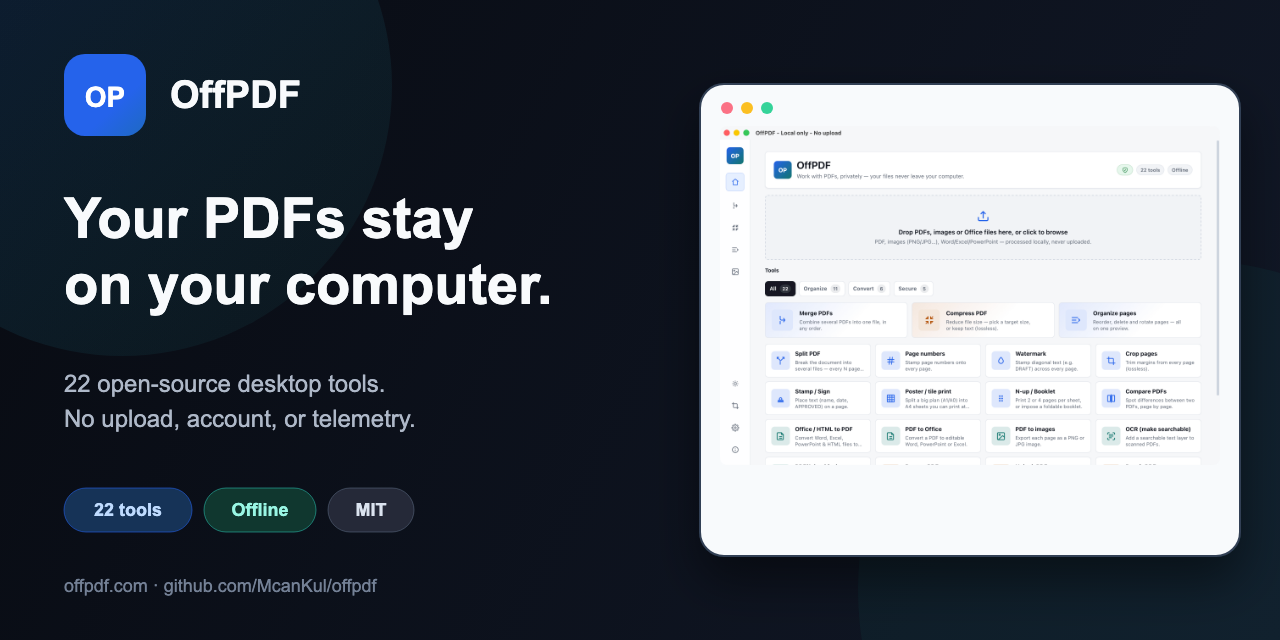
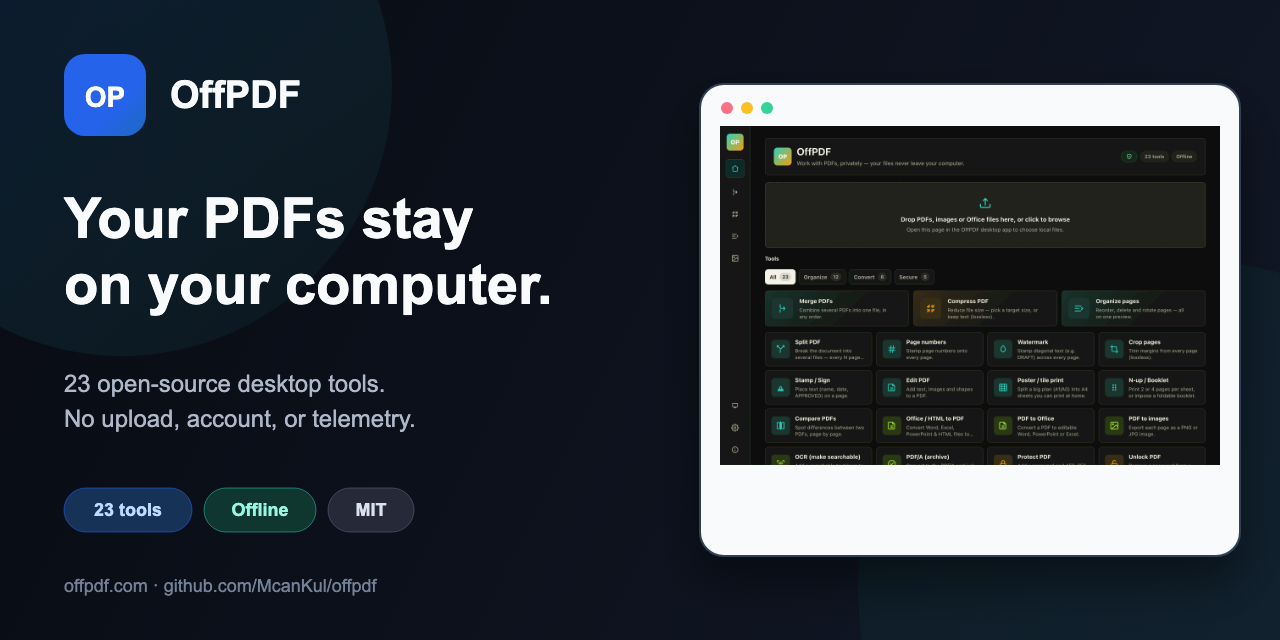
fix: finish the Edit PDF production workflow

Changed region(s): [[0.5625, 0.1875, 0.9688, 0.75]]

diff --git a/src/components/pdf/editor/PdfEditorCanvas.tsx b/src/components/pdf/editor/PdfEditorCanvas.tsx
@@ -2,7 +2,14 @@
  * Reusable visual PDF editor canvas.
  * Renders a page, hosts an SVG draft overlay, object list, zoom/page chrome.
  */
-import { useCallback, useEffect, useRef, useState, type PointerEvent as ReactPointerEvent } from "react";
+import {
+  useCallback,
+  useEffect,
+  useMemo,
+  useRef,
+  useState,
+  type PointerEvent as ReactPointerEvent,
+} from "react";
 import { Button } from "@/components/ui/Button";
 import { Icon } from "@/components/ui/Icon";
 import { Spinner } from "@/components/ui/Spinner";
@@ -20,6 +27,7 @@ import {
   pdfRectToViewport,
   placeImagePdfRect,
   rgbToHex,
+  selectedIdsOnPage,
   stageJustify,
 } from "@/lib/editor";
 import { PageSurface, type PageLayout } from "./PageSurface";
@@ -104,6 +112,20 @@ export function PdfEditorCanvas({
     strokeWidth: 1.5,
     opacity: 1,
   });
+  const pageObjects = useMemo(
+    () => session.objects.filter((object) => object.pageIndex === pageIndex),
+    [pageIndex, session.objects],
+  );
+  const pageSelectedIds = useMemo(
+    () => selectedIdsOnPage(session.objects, session.selectedIds, pageIndex),
+    [pageIndex, session.objects, session.selectedIds],
+  );
+
+  useEffect(() => {
+    setEditingTextId(null);
+    setColorPick(null);
+    setPickCursor(null);
+  }, [pageIndex]);
 
   useEffect(() => {
     const el = stageRef.current;
@@ -189,13 +211,14 @@ export function PdfEditorCanvas({
   };
 
   const copySelection = useCallback(() => {
-    const sel = session.objects.filter((o) => session.selectedIds.includes(o.id));
+    const activeIds = new Set(selectedIdsOnPage(session.objects, session.selectedIds, pageIndex));
+    const sel = session.objects.filter((object) => activeIds.has(object.id));
     if (sel.length === 0) return false;
     clipboardRef.current = sel.map(cloneObject);
     pasteGen.current = 1;
     setCanPaste(true);
     return true;
-  }, [session.objects, session.selectedIds]);
+  }, [pageIndex, session.objects, session.selectedIds]);
 
   const pasteClipboard = useCallback(() => {
     if (clipboardRef.current.length === 0) return;
@@ -249,7 +272,7 @@ export function PdfEditorCanvas({
         return;
       }
       if (mod && e.key.toLowerCase() === "d") {
-        if (session.selectedIds.length === 0) return;
+        if (pageSelectedIds.length === 0) return;
         e.preventDefault();
         copySelection();
         pasteClipboard();
@@ -270,30 +293,30 @@ export function PdfEditorCanvas({
         return;
       }
       if (e.key === "Delete" || e.key === "Backspace") {
-        if (session.selectedIds.length === 0) return;
+        if (pageSelectedIds.length === 0) return;
         e.preventDefault();
-        session.remove(session.selectedIds);
+        session.remove(pageSelectedIds);
         return;
       }
-      if (session.selectedIds.length === 0) return;
+      if (pageSelectedIds.length === 0) return;
       const step = e.shiftKey ? 10 : 1;
       if (e.key === "ArrowLeft") {
         e.preventDefault();
-        session.nudgeSelected(-step, 0);
+        session.nudgeSelected(-step, 0, pageIndex);
       } else if (e.key === "ArrowRight") {
         e.preventDefault();
-        session.nudgeSelected(step, 0);
+        session.nudgeSelected(step, 0, pageIndex);
       } else if (e.key === "ArrowUp") {
         e.preventDefault();
-        session.nudgeSelected(0, step);
+        session.nudgeSelected(0, step, pageIndex);
       } else if (e.key === "ArrowDown") {
         e.preventDefault();
-        session.nudgeSelected(0, -step);
+        session.nudgeSelected(0, -step, pageIndex);
       }
     };
     window.addEventListener("keydown", onKey);
     return () => window.removeEventListener("keydown", onKey);
-  }, [session, colorPick, copySelection, pasteClipboard, shapeOpen]);
+  }, [session, colorPick, copySelection, pageIndex, pageSelectedIds, pasteClipboard, shapeOpen]);
 
   useEffect(() => {
     const stopSpacePan = () => {
@@ -327,7 +350,7 @@ export function PdfEditorCanvas({
     };
   }, []);
 
-  const selected = session.objects.find((o) => o.id === session.selectedIds[0]) ?? null;
+  const selected = pageObjects.find((object) => object.id === pageSelectedIds[0]) ?? null;
   const panMode = !colorPick && (tool === "hand" || spacePan);
 
   const onStagePointerDown = (e: ReactPointerEvent<HTMLDivElement>) => {
@@ -403,7 +426,7 @@ export function PdfEditorCanvas({
           size="sm"
           variant="ghost"
           onClick={copySelection}
-          disabled={session.selectedIds.length === 0}
+          disabled={pageSelectedIds.length === 0}
           title="Copy (Ctrl/Cmd+C)"
           aria-label="Copy"
         >
@@ -485,22 +508,22 @@ export function PdfEditorCanvas({
         <aside className="pdf-editor__sidebar">
           <div className="pdf-editor__sidebar-title">Objects</div>
           <ObjectList
-            objects={session.objects}
-            selectedIds={session.selectedIds}
+            objects={pageObjects}
+            selectedIds={pageSelectedIds}
             onSelect={session.select}
             onDelete={session.remove}
           />
-          {selected && session.selectedIds.length > 1 && (
+          {selected && pageSelectedIds.length > 1 && (
             <div className="muted" style={{ fontSize: 12.5, marginTop: 10 }}>
-              {session.selectedIds.length} selected — drag to move together
+              {pageSelectedIds.length} selected — drag to move together
             </div>
           )}
-          {selected && session.selectedIds.length === 1 && (
+          {selected && pageSelectedIds.length === 1 && (
             <ObjectInspector
               obj={selected}
               picking={colorPick}
-              layerIndex={session.objects.filter((o) => o.pageIndex === selected.pageIndex).findIndex((o) => o.id === selected.id) + 1}
-              layerCount={session.objects.filter((o) => o.pageIndex === selected.pageIndex).length}
+              layerIndex={pageObjects.findIndex((object) => object.id === selected.id) + 1}
+              layerCount={pageObjects.length}
               onChange={(patch) => {
                 session.updateObject(selected.id, patch);
                 if (isClosedShapeObject(selected)) {
@@ -557,8 +580,8 @@ export function PdfEditorCanvas({
               {layout && (
                 <EditorOverlay
                   layout={layout}
-                  objects={session.objects}
-                  selectedIds={session.selectedIds}
+                  objects={pageObjects}
+                  selectedIds={pageSelectedIds}
                   pageIndex={pageIndex}
                   tool={panMode ? "hand" : tool}
                   createStyle={lastShapeStyle.current}
@@ -594,7 +617,7 @@ export function PdfEditorCanvas({
               )}
               {editingTextId && layout && (
                 <TextEditor
-                  obj={session.objects.find((o) => o.id === editingTextId)}
+                  obj={pageObjects.find((object) => object.id === editingTextId)}
                   layout={layout}
                   onChange={(content) => session.updateObject(editingTextId, { content } as Partial<EditObject>)}
                   onClose={() => setEditingTextId(null)}

diff --git a/src/features/edit-pdf/EditPdfPage.tsx b/src/features/edit-pdf/EditPdfPage.tsx
@@ -118,7 +118,7 @@ export function EditPdfPage() {
     );
   };
 
-  const canStart = refs.length > 0 && !!folder && doc.objects.length > 0 && !job.isBusy && inTauri;
+  const canStart = !job.isBusy && inTauri;
 
   return (
     <ToolPage tool={tool}>
@@ -131,12 +131,22 @@ export function EditPdfPage() {
         )}
       </ToolSection>
 
-      {!inTauri && (
-        <Alert variant="warning">Open the desktop app to edit pages and save a new PDF.</Alert>
-      )}
+      <ToolSection label="Output">
+        <div className="col">
+          <Input label="File name" value={name} onChange={(e) => setName(e.target.value)} placeholder="edited.pdf" />
+          <OutputFolderPicker value={folder} onChange={setFolder} />
+          <div className="row">
+            <Button variant="primary" size="lg" onClick={start} disabled={!canStart} loading={job.isBusy} leftIcon={<Icon name="fileText" size={18} />}>
+              Save PDF
+            </Button>
+          </div>
+        </div>
+      </ToolSection>
+
+      <JobStatus job={job} />
 
       {editCanvas === "edit" && refs.length > 0 && (
-        <ToolSection label="Edit" sublabel="Existing page content stays as-is. Draw on top, then save a new file.">
+        <ToolSection label="Edit">
           <PdfEditorCanvas
             sourcePath={current.path}
             sourcePage={current.page}
@@ -154,20 +164,6 @@ export function EditPdfPage() {
         </ToolSection>
       )}
 
-      <ToolSection label="Output">
-        <div className="col">
-          <Input label="File name" value={name} onChange={(e) => setName(e.target.value)} placeholder="edited.pdf" />
-          <OutputFolderPicker value={folder} onChange={setFolder} />
-        </div>
-      </ToolSection>
-
-      <div className="row">
-        <Button variant="primary" size="lg" onClick={start} disabled={!canStart} loading={job.isBusy} leftIcon={<Icon name="fileText" size={18} />}>
-          Save PDF
-        </Button>
-      </div>
-
-      <JobStatus job={job} />
       {disk.modal}
       <Modal
         open={discardPrompt !== null}

diff --git a/src/components/pdf/Dropzone.tsx b/src/components/pdf/Dropzone.tsx
@@ -9,10 +9,8 @@ import { isTauriRuntime } from "@/lib/tauriEnv";
 
 /**
  * Click to open the native file dialog, or drag-and-drop PDFs onto it.
- * Only file *paths* are produced; bytes never enter the webview.
- *
- * Requires the Tauri desktop app (`npm run tauri:dev`). Browser-only Vite does
- * not expose OS paths or the native picker.
+ * The native picker requires the desktop app because a browser cannot expose
+ * local file paths to OffPDF.
  */
 export function Dropzone({
   multiple,
@@ -69,10 +67,8 @@ export function Dropzone({
     if (!inTauri) {
       toast({
         title: "Use the desktop app",
-        description:
-          "File pick and drop need OffPDF’s desktop shell. Run: npm run tauri:dev — then open Editor canvas from the sidebar. A normal browser tab cannot access local file paths.",
+        description: "File selection is available in the OffPDF desktop app.",
         variant: "error",
-        duration: 8000,
       });
       return;
     }
@@ -128,7 +124,7 @@ export function Dropzone({
         {inTauri
           ? (hint ??
             "PDF, images (PNG/JPG…), Word/Excel/PowerPoint — processed locally, never uploaded.")
-          : "Desktop app required — run npm run tauri:dev (browser cannot open local files)."}
+          : "Open this page in the OffPDF desktop app to choose local files."}
       </div>
     </div>
   );

diff --git a/src/lib/editor/moveSelection.test.ts b/src/lib/editor/moveSelection.test.ts
@@ -1,6 +1,6 @@
 import { describe, it, expect } from "vitest";
 import { makeRectObject } from "./editReducer";
-import { moveSelectedRects } from "./moveSelection";
+import { moveSelectedRects, selectedIdsOnPage } from "./moveSelection";
 
 describe("moveSelectedRects", () => {
   it("M1: drag on the active page does not move selected objects on other pages", () => {
@@ -15,5 +15,12 @@ describe("moveSelectedRects", () => {
     expect(movedA?.rect).toEqual({ x: 25, y: 15, w: 30, h: 40 });
     expect(movedB?.rect).toEqual(bRect);
     expect(movedB?.pageIndex).toBe(1);
+  });
+
+  it("keeps selection-driven actions on the active page", () => {
+    const a = makeRectObject("a", 0, { x: 10, y: 20, w: 30, h: 40 });
+    const b = makeRectObject("b", 1, { x: 50, y: 60, w: 70, h: 80 });
+
+    expect(selectedIdsOnPage([a, b], ["a", "b", "missing"], 1)).toEqual(["b"]);
   });
 });

diff --git a/src/components/pdf/editor/useEditSession.ts b/src/components/pdf/editor/useEditSession.ts
@@ -175,13 +175,13 @@ export function useEditSession(
   }, []);
 
   const nudgeSelected = useCallback(
-    (dx: number, dy: number) => {
+    (dx: number, dy: number, activePageIndex: number) => {
       const ids = state.present.selectedIds;
       if (ids.length === 0) return;
       dispatch({ type: "BEGIN_GESTURE" });
       for (const id of ids) {
         const obj = state.present.objects.find((o) => o.id === id);
-        if (!obj || obj.locked) continue;
+        if (!obj || obj.locked || obj.pageIndex !== activePageIndex) continue;
         const rect = { ...obj.rect, x: obj.rect.x + dx, y: obj.rect.y + dy };
         if (obj.kind === "line") {
           dispatch({

diff --git a/src/lib/editor/moveSelection.ts b/src/lib/editor/moveSelection.ts
@@ -1,6 +1,18 @@
 import type { EditObject } from "./types";
 import { offsetObject } from "./serialize";
 
+/** Keep selection-driven actions scoped to the page currently being edited. */
+export function selectedIdsOnPage(
+  objects: EditObject[],
+  selectedIds: string[],
+  activePageIndex: number,
+): string[] {
+  const ids = new Set(selectedIds);
+  return objects
+    .filter((object) => object.pageIndex === activePageIndex && ids.has(object.id))
+    .map((object) => object.id);
+}
+
 /** Translate selected objects by PDF-space dx/dy. Other-page ids must stay put. */
 export function moveSelectedRects(
   objects: EditObject[],

diff --git a/src/lib/tools.ts b/src/lib/tools.ts
@@ -90,9 +90,8 @@ export const TOOLS: ToolMeta[] = [
   {
     id: "editPdf",
     name: "Edit PDF",
-    description: "Add text, images and shapes — original file stays unchanged.",
-    longDescription:
-      "Place text, PNG/JPEG images, rectangles, lines and freehand drawings on the page. Existing text and vectors stay selectable. A new PDF is written; the original is never overwritten.",
+    description: "Add text, images and shapes to a PDF.",
+    longDescription: "Add text, images and shapes to a PDF, then save a new copy.",
     icon: "fileText",
     path: "/tools/edit-pdf",
     category: "Organize",

diff --git a/src/lib/editor/index.ts b/src/lib/editor/index.ts
@@ -102,7 +102,7 @@ export {
 export type { KeyRebindPlan } from "./remapPages";
 
 export { stageJustify } from "./stageLayout";
-export { moveSelectedRects } from "./moveSelection";
+export { moveSelectedRects, selectedIdsOnPage } from "./moveSelection";
 export { shouldShowEditCanvas } from "./editVisibility";
 export type { EditCanvasVisibility } from "./editVisibility";
 export { clampPageIndex } from "./pageIndex";

diff --git a/ROADMAP.md b/ROADMAP.md
@@ -11,7 +11,7 @@ reliable local processing, clear packaging, and a contributor-friendly project.
   the supported workflows run offline. The installer is not code-signed yet.
 - The Apple Silicon macOS build is signed and notarized. It bundles qpdf,
   Poppler, and Tesseract; LibreOffice remains optional for Office and PDF/A work.
-- The app currently includes 22 tools for organizing, converting, optimizing,
+- The app currently includes 23 tools for organizing, converting, optimizing,
   securing, and repairing PDFs.
 
 ## Current focus
